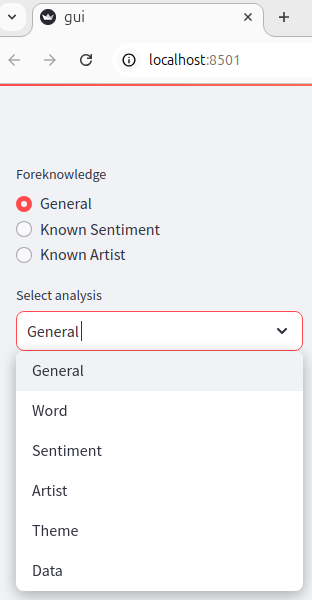
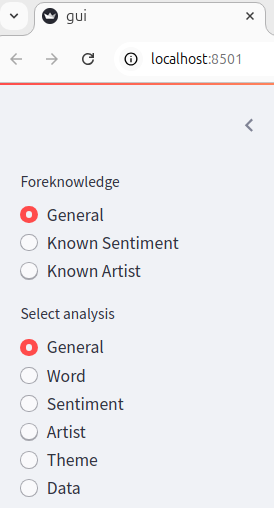
create req file

diff --git a/gui_dir/gui_helper.py b/gui_dir/gui_helper.py
@@ -217,7 +217,7 @@ def gui_template(
 
         artist_stat, artist_stat_len = known_sentiment_artists_calc_counts_with_sentiment(df_total, "all_artists", "selected_sentiment", present_sentiments)
 
-    analysis_option = st.sidebar.selectbox("Select analysis", options)
+    analysis_option = st.sidebar.radio("Select analysis", options)
 
     if higher_option == "KNOWN_SENTIMENT":
         word_insight, artist_insight, theme_insight = find_known_sentiment_conc(present_sentiments[0])
